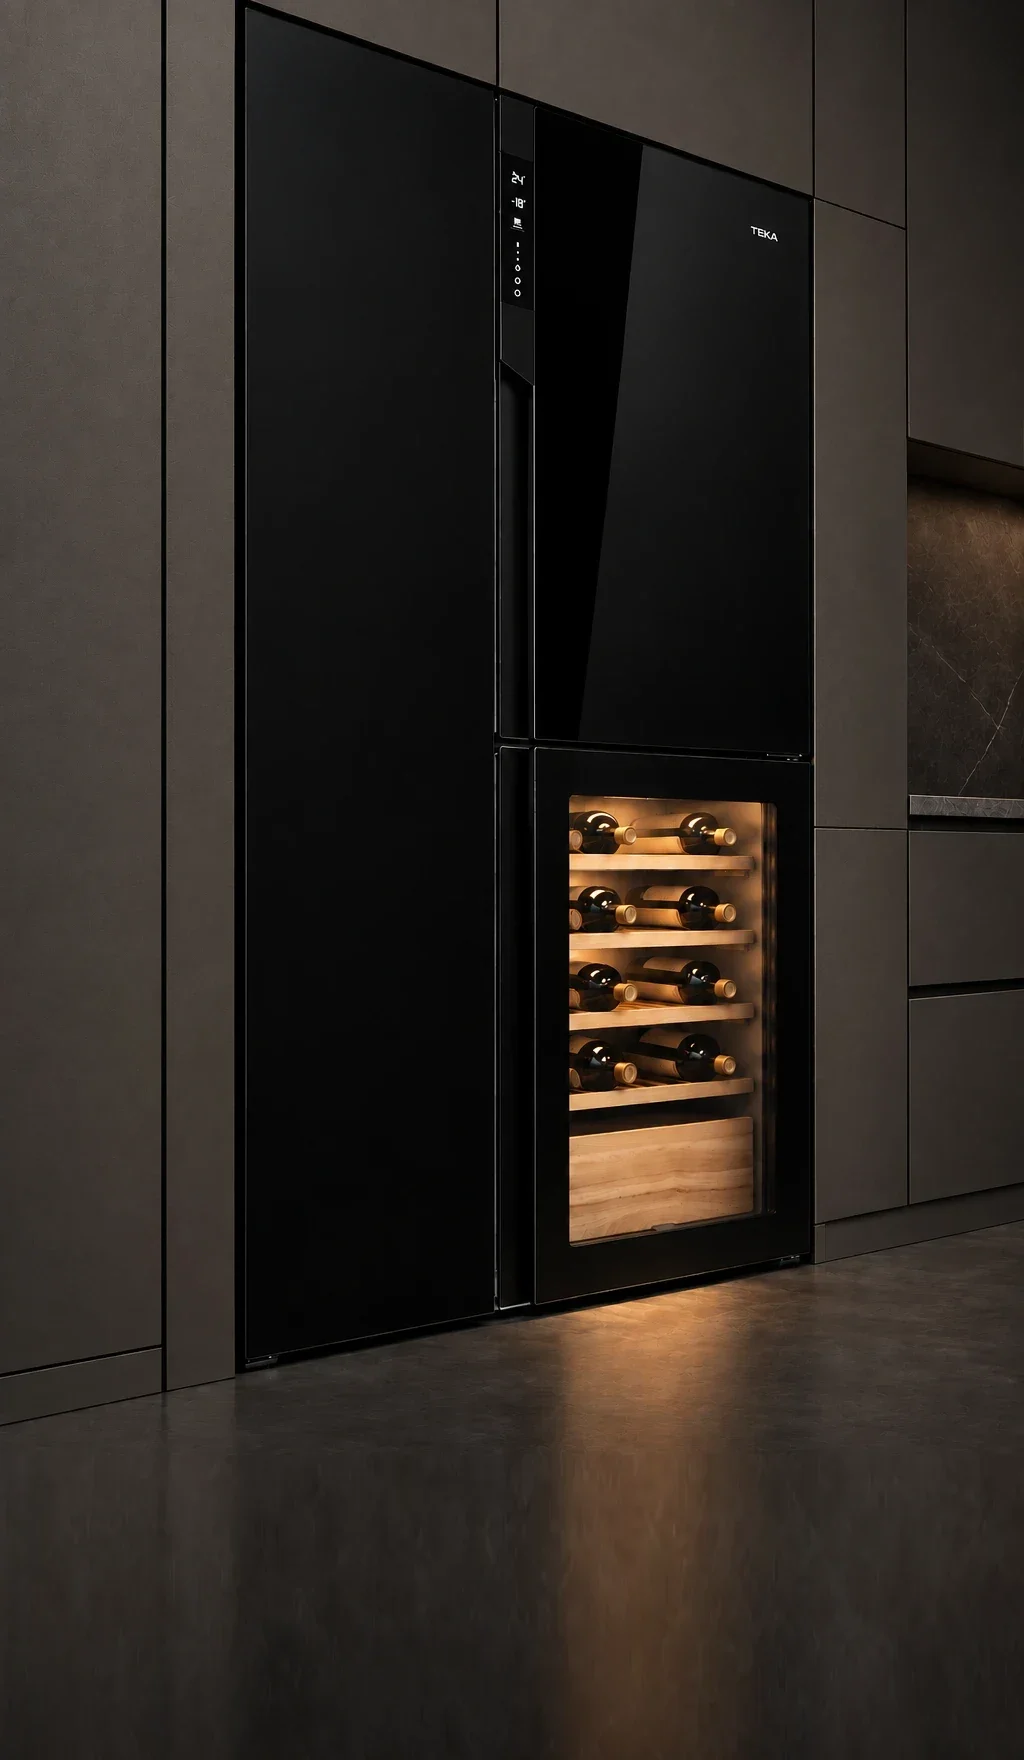
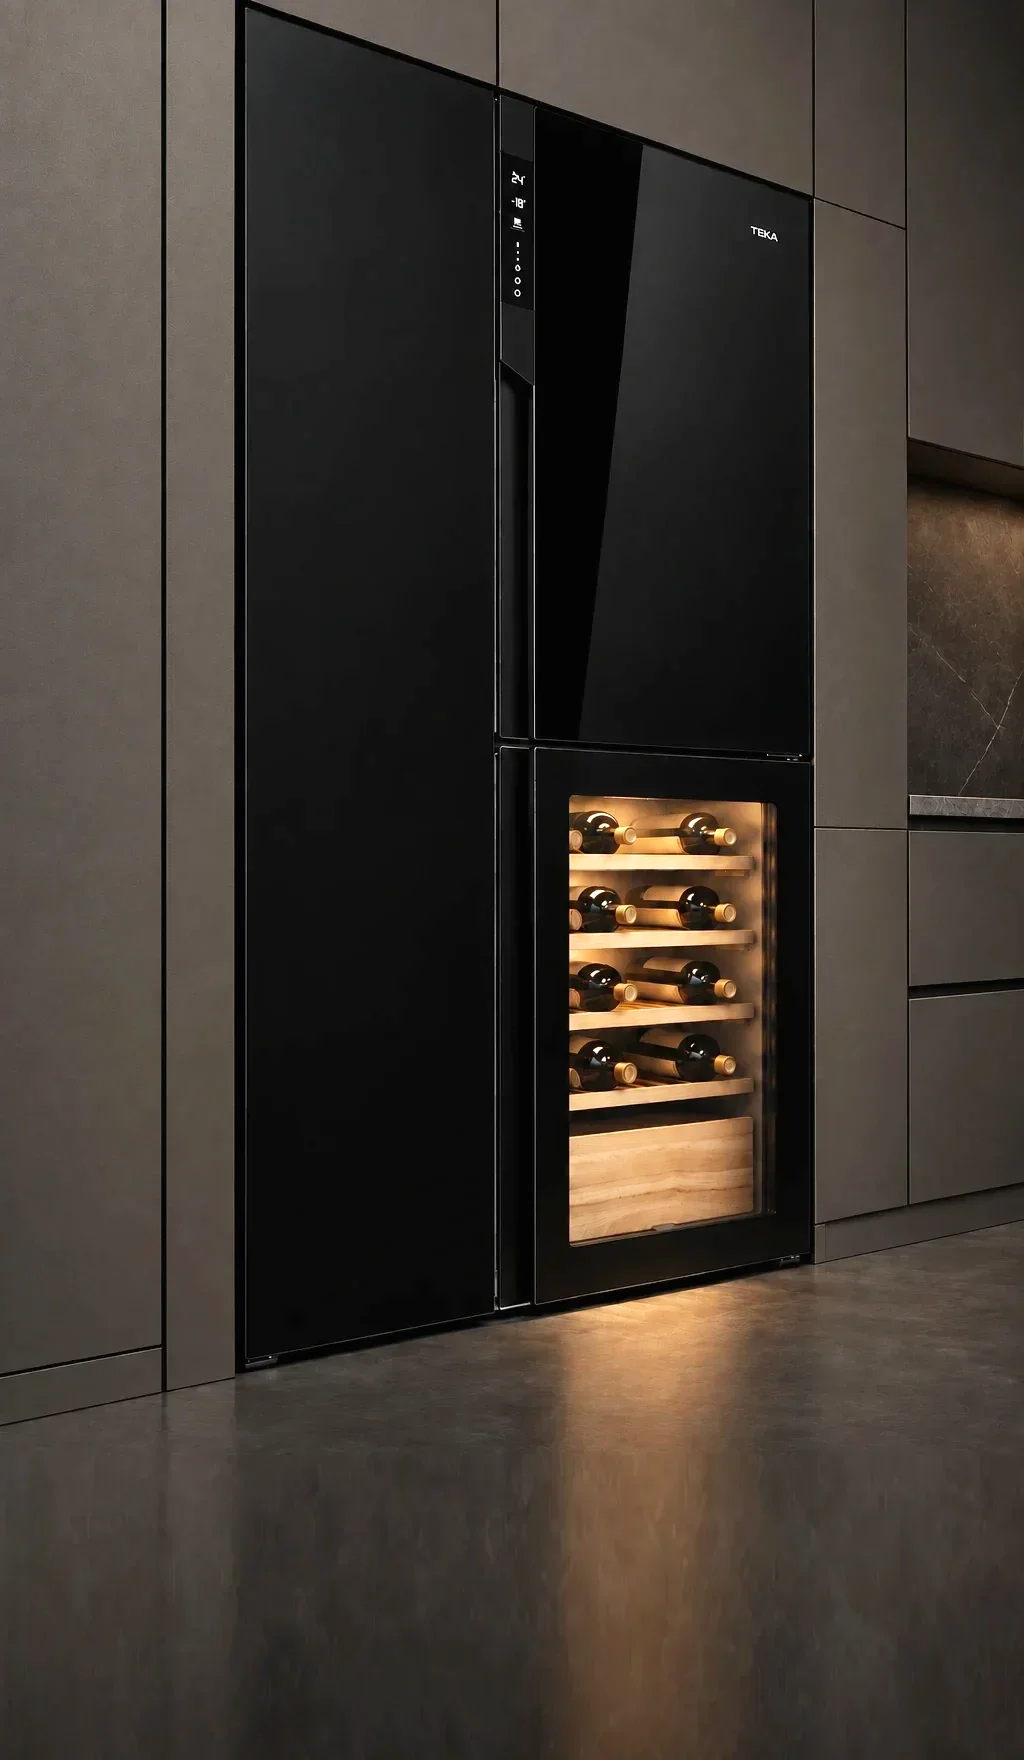
Card reveal fix, faucets text/speed, brighter fridge

diff --git a/category-faucets.html b/category-faucets.html
@@ -109,7 +109,8 @@ a{color:inherit;text-decoration:none}
 @keyframes spl{from{transform:scaleX(.9);opacity:.75}to{transform:scaleX(1.06);opacity:1}}
 .cveil{position:absolute;inset:0;pointer-events:none;opacity:0;
   background:linear-gradient(180deg,rgba(16,14,12,.62) 0,rgba(16,14,12,.3) 22%,rgba(16,14,12,0) 38%)}
-.claim{position:absolute;left:20px;right:20px;top:calc(60px + 5.5svh);pointer-events:none}
+.claim{position:absolute;left:20px;right:20px;top:calc(84px + 3svh);pointer-events:none}
+@media (max-height:740px){.claim{top:78px}.claim h2{font-size:24px}.claim .ck{margin-bottom:8px}.claim p{margin-top:8px}}
 .claim.tight h2{font-size:24px}.claim.tight .ck{margin-bottom:8px}.claim.tight p{margin-top:8px}
 .claim>*{opacity:0}
 .claim .ck{display:block;font-size:11px;font-weight:700;letter-spacing:.46em;color:rgba(255,255,255,.72);margin-bottom:12px}
@@ -651,12 +652,14 @@ function render(anim=true){
     setTimeout(go,420);
   } else go();
 }
+function chkCards(){if(!window.__pend)return;const h=innerHeight*.94;__pend=__pend.filter(([c,go])=>{if(!c.isConnected)return false;if(c.getBoundingClientRect().top<h){go();return false}return true});}
+addEventListener('scroll',chkCards,{passive:true});
 function bindCards(anim){
   gsap.utils.toArray('.pc').forEach((c,i)=>{
     const r=c.getBoundingClientRect(),vis=r.top<innerHeight;
     const show=()=>c.classList.add('in');
     if(vis) gsap.to(c,{opacity:1,y:0,duration:.6,delay:i*.06,ease:'power3.out',onStart:show});
-    else gsap.to(c,{opacity:1,y:0,duration:.7,ease:'power3.out',delay:(i%2)*.1,scrollTrigger:{trigger:c,start:'top 92%',once:true,onEnter:show}});
+    else{let on=false;const go=()=>{if(on)return;on=true;io.disconnect();gsap.to(c,{opacity:1,y:0,duration:.7,ease:'power3.out',delay:(i%2)*.1,onStart:show});};const io=new IntersectionObserver(e=>{if(e[0].isIntersecting)go();},{rootMargin:'0px 0px -6% 0px'});io.observe(c);(window.__pend=window.__pend||[]).push([c,go]);}
     ScrollTrigger.create({trigger:c,start:'top 50%',end:'bottom 50%',onToggle:s=>c.classList.toggle('lit',s.isActive)});
   });
   ScrollTrigger.refresh();
@@ -800,7 +803,7 @@ setTimeout(()=>{
       .fromTo('#splash',{opacity:0},{opacity:1,ease:'power1.out',duration:.1},.28)
       .fromTo('#cveil',{opacity:0},{opacity:1,ease:'none',duration:.22},.3)
       .fromTo('#claim>*',{y:24,opacity:0},{y:0,opacity:1,ease:'power2.out',duration:.2,stagger:.07},.36);
-    const PLAY=.62/2.2,BACK=.62/1.4;
+    const PLAY=.62/1.4,BACK=.62/1;
     let open=false,busy=false;
     const atTop=()=>window.scrollY<=2&&window.__heroTop!==false;(function(){const hr=document.getElementById('hero');if(!hr||!window.IntersectionObserver)return;new IntersectionObserver(e=>{window.__heroTop=e[0].intersectionRatio>.97;sync();},{threshold:[0,.5,.97,1]}).observe(hr);})();document.documentElement.classList.add('tk-lock');
     const fwd=ScrollTrigger.observe({target:window,type:'wheel,touch',wheelSpeed:-1,tolerance:12,debounce:false,preventDefault:true,lockAxis:true,ignore:'.intro .chips',

diff --git a/category-fridges.html b/category-fridges.html
@@ -77,7 +77,7 @@ a{color:inherit;text-decoration:none}
 .f2{opacity:0;will-change:opacity}
 .dim{position:absolute;inset:0;background:#0a0908;opacity:0;pointer-events:none;will-change:opacity}
 .veil{position:absolute;inset:0;pointer-events:none;background:
-  linear-gradient(180deg,rgba(16,14,12,.78) 0,rgba(16,14,12,.46) 11%,rgba(16,14,12,.18) 21%,rgba(16,14,12,0) 32%),
+  linear-gradient(180deg,rgba(16,14,12,.6) 0,rgba(16,14,12,.3) 10%,rgba(16,14,12,.1) 19%,rgba(16,14,12,0) 28%),
   linear-gradient(0deg,rgba(16,14,12,.93) 0,rgba(16,14,12,.58) 12%,rgba(16,14,12,.24) 23%,rgba(16,14,12,.06) 33%,rgba(16,14,12,0) 44%)}
 /* свет внутри винного отсека */
 .fg{position:absolute;pointer-events:none;mix-blend-mode:screen;border-radius:50%;opacity:0;
@@ -630,12 +630,14 @@ function render(anim=true){
     setTimeout(go,420);
   } else go();
 }
+function chkCards(){if(!window.__pend)return;const h=innerHeight*.94;__pend=__pend.filter(([c,go])=>{if(!c.isConnected)return false;if(c.getBoundingClientRect().top<h){go();return false}return true});}
+addEventListener('scroll',chkCards,{passive:true});
 function bindCards(anim){
   gsap.utils.toArray('.pc').forEach((c,i)=>{
     const r=c.getBoundingClientRect(),vis=r.top<innerHeight;
     const show=()=>c.classList.add('in');
     if(vis) gsap.to(c,{opacity:1,y:0,duration:.6,delay:i*.06,ease:'power3.out',onStart:show});
-    else gsap.to(c,{opacity:1,y:0,duration:.7,ease:'power3.out',delay:(i%2)*.1,scrollTrigger:{trigger:c,start:'top 92%',once:true,onEnter:show}});
+    else{let on=false;const go=()=>{if(on)return;on=true;io.disconnect();gsap.to(c,{opacity:1,y:0,duration:.7,ease:'power3.out',delay:(i%2)*.1,onStart:show});};const io=new IntersectionObserver(e=>{if(e[0].isIntersecting)go();},{rootMargin:'0px 0px -6% 0px'});io.observe(c);(window.__pend=window.__pend||[]).push([c,go]);}
     ScrollTrigger.create({trigger:c,start:'top 50%',end:'bottom 50%',onToggle:s=>c.classList.toggle('lit',s.isActive)});
   });
   ScrollTrigger.refresh();

diff --git a/category-hobs.html b/category-hobs.html
@@ -619,12 +619,14 @@ function render(anim=true){
     setTimeout(go,420);
   } else go();
 }
+function chkCards(){if(!window.__pend)return;const h=innerHeight*.94;__pend=__pend.filter(([c,go])=>{if(!c.isConnected)return false;if(c.getBoundingClientRect().top<h){go();return false}return true});}
+addEventListener('scroll',chkCards,{passive:true});
 function bindCards(anim){
   gsap.utils.toArray('.pc').forEach((c,i)=>{
     const r=c.getBoundingClientRect(),vis=r.top<innerHeight;
     const show=()=>{c.classList.add('in');const tg=c.querySelector('.tag.s');if(tg)gsap.fromTo(tg,{scale:0,rotate:-8},{scale:1,rotate:0,duration:.6,delay:.4,ease:'back.out(2.5)'});};
     if(vis) gsap.to(c,{opacity:1,y:0,duration:.6,delay:i*.06,ease:'power3.out',onStart:show});
-    else gsap.to(c,{opacity:1,y:0,duration:.7,ease:'power3.out',delay:(i%2)*.1,scrollTrigger:{trigger:c,start:'top 92%',once:true,onEnter:show}});
+    else{let on=false;const go=()=>{if(on)return;on=true;io.disconnect();gsap.to(c,{opacity:1,y:0,duration:.7,ease:'power3.out',delay:(i%2)*.1,onStart:show});};const io=new IntersectionObserver(e=>{if(e[0].isIntersecting)go();},{rootMargin:'0px 0px -6% 0px'});io.observe(c);(window.__pend=window.__pend||[]).push([c,go]);}
     ScrollTrigger.create({trigger:c,start:'top 50%',end:'bottom 50%',onToggle:s=>c.classList.toggle('lit',s.isActive)});
   });
   const tb=document.getElementById('tb');

diff --git a/category-hoods.html b/category-hoods.html
@@ -636,12 +636,14 @@ function render(anim=true){
     setTimeout(go,420);
   } else go();
 }
+function chkCards(){if(!window.__pend)return;const h=innerHeight*.94;__pend=__pend.filter(([c,go])=>{if(!c.isConnected)return false;if(c.getBoundingClientRect().top<h){go();return false}return true});}
+addEventListener('scroll',chkCards,{passive:true});
 function bindCards(anim){
   gsap.utils.toArray('.pc').forEach((c,i)=>{
     const r=c.getBoundingClientRect(),vis=r.top<innerHeight;
     const show=()=>{c.classList.add('in');const tg=c.querySelector('.tag.s');if(tg)gsap.fromTo(tg,{scale:0,rotate:-8},{scale:1,rotate:0,duration:.6,delay:.4,ease:'back.out(2.5)'});};
     if(vis) gsap.to(c,{opacity:1,y:0,duration:.6,delay:i*.06,ease:'power3.out',onStart:show});
-    else gsap.to(c,{opacity:1,y:0,duration:.7,ease:'power3.out',delay:(i%2)*.1,scrollTrigger:{trigger:c,start:'top 92%',once:true,onEnter:show}});
+    else{let on=false;const go=()=>{if(on)return;on=true;io.disconnect();gsap.to(c,{opacity:1,y:0,duration:.7,ease:'power3.out',delay:(i%2)*.1,onStart:show});};const io=new IntersectionObserver(e=>{if(e[0].isIntersecting)go();},{rootMargin:'0px 0px -6% 0px'});io.observe(c);(window.__pend=window.__pend||[]).push([c,go]);}
     ScrollTrigger.create({trigger:c,start:'top 50%',end:'bottom 50%',onToggle:s=>c.classList.toggle('lit',s.isActive)});
   });
   const tb=document.getElementById('tb');

diff --git a/category-ovens-light.html b/category-ovens-light.html
@@ -603,12 +603,14 @@ function render(anim=true){
     setTimeout(go,420);
   } else go();
 }
+function chkCards(){if(!window.__pend)return;const h=innerHeight*.94;__pend=__pend.filter(([c,go])=>{if(!c.isConnected)return false;if(c.getBoundingClientRect().top<h){go();return false}return true});}
+addEventListener('scroll',chkCards,{passive:true});
 function bindCards(anim){
   gsap.utils.toArray('.pc').forEach((c,i)=>{
     const r=c.getBoundingClientRect(),vis=r.top<innerHeight;
     const show=()=>{c.classList.add('in');const tg=c.querySelector('.tag.s');if(tg)gsap.fromTo(tg,{scale:0,rotate:-8},{scale:1,rotate:0,duration:.6,delay:.4,ease:'back.out(2.5)'});};
     if(vis) gsap.to(c,{opacity:1,y:0,duration:.6,delay:i*.06,ease:'power3.out',onStart:show});
-    else gsap.to(c,{opacity:1,y:0,duration:.7,ease:'power3.out',delay:(i%2)*.1,scrollTrigger:{trigger:c,start:'top 92%',once:true,onEnter:show}});
+    else{let on=false;const go=()=>{if(on)return;on=true;io.disconnect();gsap.to(c,{opacity:1,y:0,duration:.7,ease:'power3.out',delay:(i%2)*.1,onStart:show});};const io=new IntersectionObserver(e=>{if(e[0].isIntersecting)go();},{rootMargin:'0px 0px -6% 0px'});io.observe(c);(window.__pend=window.__pend||[]).push([c,go]);}
     ScrollTrigger.create({trigger:c,start:'top 50%',end:'bottom 50%',onToggle:s=>c.classList.toggle('lit',s.isActive)});
   });
   const tb=document.getElementById('tb');

diff --git a/category-accessories.html b/category-accessories.html
@@ -616,12 +616,14 @@ function render(anim=true){
     setTimeout(go,420);
   } else go();
 }
+function chkCards(){if(!window.__pend)return;const h=innerHeight*.94;__pend=__pend.filter(([c,go])=>{if(!c.isConnected)return false;if(c.getBoundingClientRect().top<h){go();return false}return true});}
+addEventListener('scroll',chkCards,{passive:true});
 function bindCards(anim){
   gsap.utils.toArray('.pc').forEach((c,i)=>{
     const r=c.getBoundingClientRect(),vis=r.top<innerHeight;
     const show=()=>c.classList.add('in');
     if(vis) gsap.to(c,{opacity:1,y:0,duration:.6,delay:i*.06,ease:'power3.out',onStart:show});
-    else gsap.to(c,{opacity:1,y:0,duration:.7,ease:'power3.out',delay:(i%2)*.1,scrollTrigger:{trigger:c,start:'top 92%',once:true,onEnter:show}});
+    else{let on=false;const go=()=>{if(on)return;on=true;io.disconnect();gsap.to(c,{opacity:1,y:0,duration:.7,ease:'power3.out',delay:(i%2)*.1,onStart:show});};const io=new IntersectionObserver(e=>{if(e[0].isIntersecting)go();},{rootMargin:'0px 0px -6% 0px'});io.observe(c);(window.__pend=window.__pend||[]).push([c,go]);}
     ScrollTrigger.create({trigger:c,start:'top 50%',end:'bottom 50%',onToggle:s=>c.classList.toggle('lit',s.isActive)});
   });
   ScrollTrigger.refresh();

diff --git a/category-coffee.html b/category-coffee.html
@@ -693,12 +693,14 @@ function render(anim=true){
     setTimeout(go,420);
   } else go();
 }
+function chkCards(){if(!window.__pend)return;const h=innerHeight*.94;__pend=__pend.filter(([c,go])=>{if(!c.isConnected)return false;if(c.getBoundingClientRect().top<h){go();return false}return true});}
+addEventListener('scroll',chkCards,{passive:true});
 function bindCards(anim){
   gsap.utils.toArray('.pc').forEach((c,i)=>{
     const r=c.getBoundingClientRect(),vis=r.top<innerHeight;
     const show=()=>c.classList.add('in');
     if(vis) gsap.to(c,{opacity:1,y:0,duration:.6,delay:i*.06,ease:'power3.out',onStart:show});
-    else gsap.to(c,{opacity:1,y:0,duration:.7,ease:'power3.out',delay:(i%2)*.1,scrollTrigger:{trigger:c,start:'top 92%',once:true,onEnter:show}});
+    else{let on=false;const go=()=>{if(on)return;on=true;io.disconnect();gsap.to(c,{opacity:1,y:0,duration:.7,ease:'power3.out',delay:(i%2)*.1,onStart:show});};const io=new IntersectionObserver(e=>{if(e[0].isIntersecting)go();},{rootMargin:'0px 0px -6% 0px'});io.observe(c);(window.__pend=window.__pend||[]).push([c,go]);}
     ScrollTrigger.create({trigger:c,start:'top 50%',end:'bottom 50%',onToggle:s=>c.classList.toggle('lit',s.isActive)});
   });
   ScrollTrigger.refresh();

diff --git a/category-dishwashers.html b/category-dishwashers.html
@@ -608,12 +608,14 @@ function render(anim=true){
     setTimeout(go,420);
   } else go();
 }
+function chkCards(){if(!window.__pend)return;const h=innerHeight*.94;__pend=__pend.filter(([c,go])=>{if(!c.isConnected)return false;if(c.getBoundingClientRect().top<h){go();return false}return true});}
+addEventListener('scroll',chkCards,{passive:true});
 function bindCards(anim){
   gsap.utils.toArray('.pc').forEach((c,i)=>{
     const r=c.getBoundingClientRect(),vis=r.top<innerHeight;
     const show=()=>c.classList.add('in');
     if(vis) gsap.to(c,{opacity:1,y:0,duration:.6,delay:i*.06,ease:'power3.out',onStart:show});
-    else gsap.to(c,{opacity:1,y:0,duration:.7,ease:'power3.out',delay:(i%2)*.1,scrollTrigger:{trigger:c,start:'top 92%',once:true,onEnter:show}});
+    else{let on=false;const go=()=>{if(on)return;on=true;io.disconnect();gsap.to(c,{opacity:1,y:0,duration:.7,ease:'power3.out',delay:(i%2)*.1,onStart:show});};const io=new IntersectionObserver(e=>{if(e[0].isIntersecting)go();},{rootMargin:'0px 0px -6% 0px'});io.observe(c);(window.__pend=window.__pend||[]).push([c,go]);}
     ScrollTrigger.create({trigger:c,start:'top 50%',end:'bottom 50%',onToggle:s=>c.classList.toggle('lit',s.isActive)});
   });
   ScrollTrigger.refresh();

diff --git a/category-laundry.html b/category-laundry.html
@@ -611,12 +611,14 @@ function render(anim=true){
     setTimeout(go,420);
   } else go();
 }
+function chkCards(){if(!window.__pend)return;const h=innerHeight*.94;__pend=__pend.filter(([c,go])=>{if(!c.isConnected)return false;if(c.getBoundingClientRect().top<h){go();return false}return true});}
+addEventListener('scroll',chkCards,{passive:true});
 function bindCards(anim){
   gsap.utils.toArray('.pc').forEach((c,i)=>{
     const r=c.getBoundingClientRect(),vis=r.top<innerHeight;
     const show=()=>c.classList.add('in');
     if(vis) gsap.to(c,{opacity:1,y:0,duration:.6,delay:i*.06,ease:'power3.out',onStart:show});
-    else gsap.to(c,{opacity:1,y:0,duration:.7,ease:'power3.out',delay:(i%2)*.1,scrollTrigger:{trigger:c,start:'top 92%',once:true,onEnter:show}});
+    else{let on=false;const go=()=>{if(on)return;on=true;io.disconnect();gsap.to(c,{opacity:1,y:0,duration:.7,ease:'power3.out',delay:(i%2)*.1,onStart:show});};const io=new IntersectionObserver(e=>{if(e[0].isIntersecting)go();},{rootMargin:'0px 0px -6% 0px'});io.observe(c);(window.__pend=window.__pend||[]).push([c,go]);}
     ScrollTrigger.create({trigger:c,start:'top 50%',end:'bottom 50%',onToggle:s=>c.classList.toggle('lit',s.isActive)});
   });
   ScrollTrigger.refresh();

diff --git a/category-microwaves.html b/category-microwaves.html
@@ -603,12 +603,14 @@ function render(anim=true){
     setTimeout(go,420);
   } else go();
 }
+function chkCards(){if(!window.__pend)return;const h=innerHeight*.94;__pend=__pend.filter(([c,go])=>{if(!c.isConnected)return false;if(c.getBoundingClientRect().top<h){go();return false}return true});}
+addEventListener('scroll',chkCards,{passive:true});
 function bindCards(anim){
   gsap.utils.toArray('.pc').forEach((c,i)=>{
     const r=c.getBoundingClientRect(),vis=r.top<innerHeight;
     const show=()=>c.classList.add('in');
     if(vis) gsap.to(c,{opacity:1,y:0,duration:.6,delay:i*.06,ease:'power3.out',onStart:show});
-    else gsap.to(c,{opacity:1,y:0,duration:.7,ease:'power3.out',delay:(i%2)*.1,scrollTrigger:{trigger:c,start:'top 92%',once:true,onEnter:show}});
+    else{let on=false;const go=()=>{if(on)return;on=true;io.disconnect();gsap.to(c,{opacity:1,y:0,duration:.7,ease:'power3.out',delay:(i%2)*.1,onStart:show});};const io=new IntersectionObserver(e=>{if(e[0].isIntersecting)go();},{rootMargin:'0px 0px -6% 0px'});io.observe(c);(window.__pend=window.__pend||[]).push([c,go]);}
     ScrollTrigger.create({trigger:c,start:'top 50%',end:'bottom 50%',onToggle:s=>c.classList.toggle('lit',s.isActive)});
   });
   ScrollTrigger.refresh();

diff --git a/category-sinks.html b/category-sinks.html
@@ -647,12 +647,14 @@ function render(anim=true){
     setTimeout(go,420);
   } else go();
 }
+function chkCards(){if(!window.__pend)return;const h=innerHeight*.94;__pend=__pend.filter(([c,go])=>{if(!c.isConnected)return false;if(c.getBoundingClientRect().top<h){go();return false}return true});}
+addEventListener('scroll',chkCards,{passive:true});
 function bindCards(anim){
   gsap.utils.toArray('.pc').forEach((c,i)=>{
     const r=c.getBoundingClientRect(),vis=r.top<innerHeight;
     const show=()=>c.classList.add('in');
     if(vis) gsap.to(c,{opacity:1,y:0,duration:.6,delay:i*.06,ease:'power3.out',onStart:show});
-    else gsap.to(c,{opacity:1,y:0,duration:.7,ease:'power3.out',delay:(i%2)*.1,scrollTrigger:{trigger:c,start:'top 92%',once:true,onEnter:show}});
+    else{let on=false;const go=()=>{if(on)return;on=true;io.disconnect();gsap.to(c,{opacity:1,y:0,duration:.7,ease:'power3.out',delay:(i%2)*.1,onStart:show});};const io=new IntersectionObserver(e=>{if(e[0].isIntersecting)go();},{rootMargin:'0px 0px -6% 0px'});io.observe(c);(window.__pend=window.__pend||[]).push([c,go]);}
     ScrollTrigger.create({trigger:c,start:'top 50%',end:'bottom 50%',onToggle:s=>c.classList.toggle('lit',s.isActive)});
   });
   ScrollTrigger.refresh();

diff --git a/category-wine-coolers.html b/category-wine-coolers.html
@@ -621,12 +621,14 @@ function render(anim=true){
     setTimeout(go,420);
   } else go();
 }
+function chkCards(){if(!window.__pend)return;const h=innerHeight*.94;__pend=__pend.filter(([c,go])=>{if(!c.isConnected)return false;if(c.getBoundingClientRect().top<h){go();return false}return true});}
+addEventListener('scroll',chkCards,{passive:true});
 function bindCards(anim){
   gsap.utils.toArray('.pc').forEach((c,i)=>{
     const r=c.getBoundingClientRect(),vis=r.top<innerHeight;
     const show=()=>c.classList.add('in');
     if(vis) gsap.to(c,{opacity:1,y:0,duration:.6,delay:i*.06,ease:'power3.out',onStart:show});
-    else gsap.to(c,{opacity:1,y:0,duration:.7,ease:'power3.out',delay:(i%2)*.1,scrollTrigger:{trigger:c,start:'top 92%',once:true,onEnter:show}});
+    else{let on=false;const go=()=>{if(on)return;on=true;io.disconnect();gsap.to(c,{opacity:1,y:0,duration:.7,ease:'power3.out',delay:(i%2)*.1,onStart:show});};const io=new IntersectionObserver(e=>{if(e[0].isIntersecting)go();},{rootMargin:'0px 0px -6% 0px'});io.observe(c);(window.__pend=window.__pend||[]).push([c,go]);}
     ScrollTrigger.create({trigger:c,start:'top 50%',end:'bottom 50%',onToggle:s=>c.classList.toggle('lit',s.isActive)});
   });
   ScrollTrigger.refresh();
